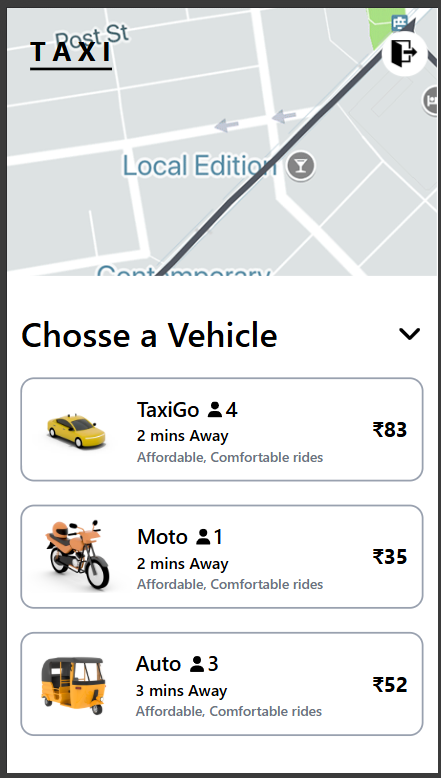
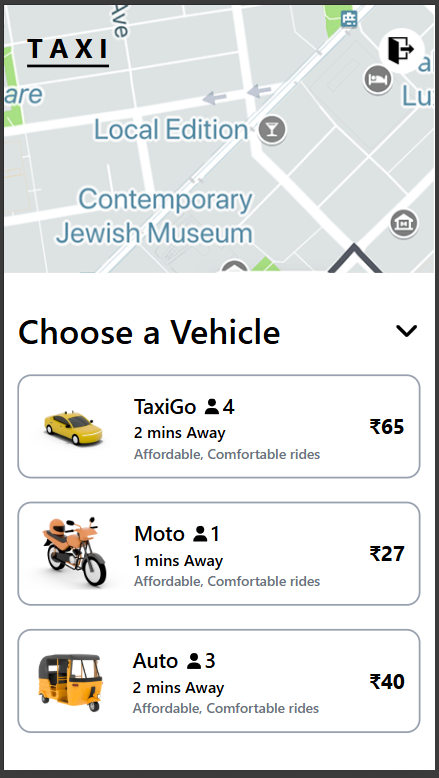
spelling corrections

diff --git a/frontend/src/components/RidePopup.jsx b/frontend/src/components/RidePopup.jsx
@@ -19,7 +19,7 @@ export default function RidePopup({setRidePopup,ride,confirmRide}) {
           />
           <h4 className="text-lg font-semibold text-gray-800">{ride?.user?.fullname?.firstname + " " + ride?.user?.fullname?.lastname}</h4>
         </div>
-        <p className="text-xl font-bold text-gray-800">2 KM</p>
+        <p className="text-xl font-bold text-gray-800">{ride?.distance} KM</p>
       </div>
 
       <div className="space-y-4">

diff --git a/frontend/src/components/StartRidePopup.jsx b/frontend/src/components/StartRidePopup.jsx
@@ -66,7 +66,7 @@ export default function StartRidePopup({
               ride?.user?.fullname?.lastname}
           </h4>
         </div>
-        <p className="text-xl font-bold text-gray-800">2 KM</p>
+        <p className="text-xl font-bold text-gray-800">{ride?.distance} KM</p>
       </div>
       {/* Ride Details */}
       <div className="space-y-4">

diff --git a/frontend/src/components/VehiclePanel.jsx b/frontend/src/components/VehiclePanel.jsx
@@ -11,7 +11,7 @@ export default function VehiclePanel({
   return (
     <>
       <div className="flex justify-between items-center">
-        <h4 className="text-3xl font-semibold">Chosse a Vehicle</h4>
+        <h4 className="text-3xl font-semibold">Choose a Vehicle</h4>
         <FaAngleDown
           className="text-2xl"
           onClick={() => {
